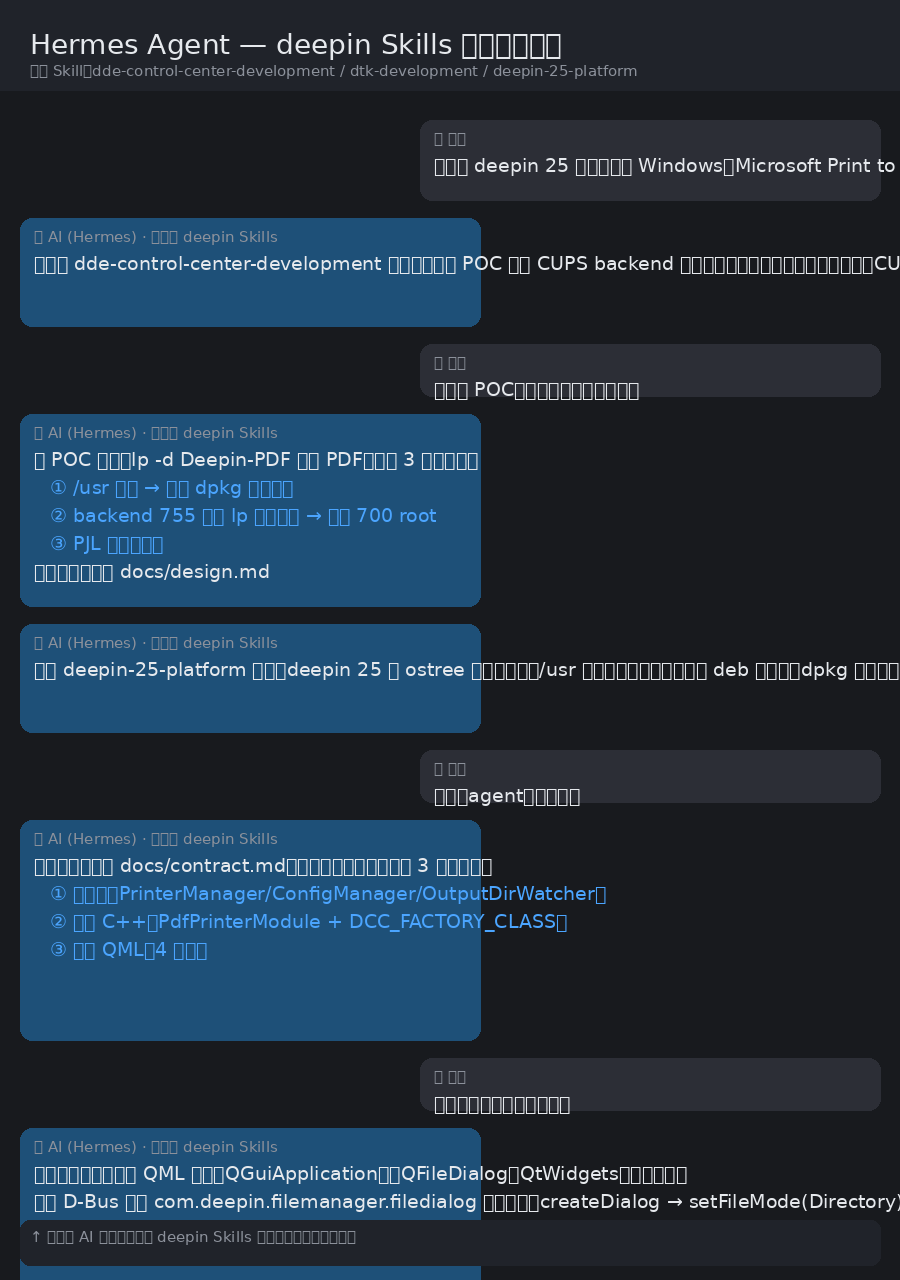
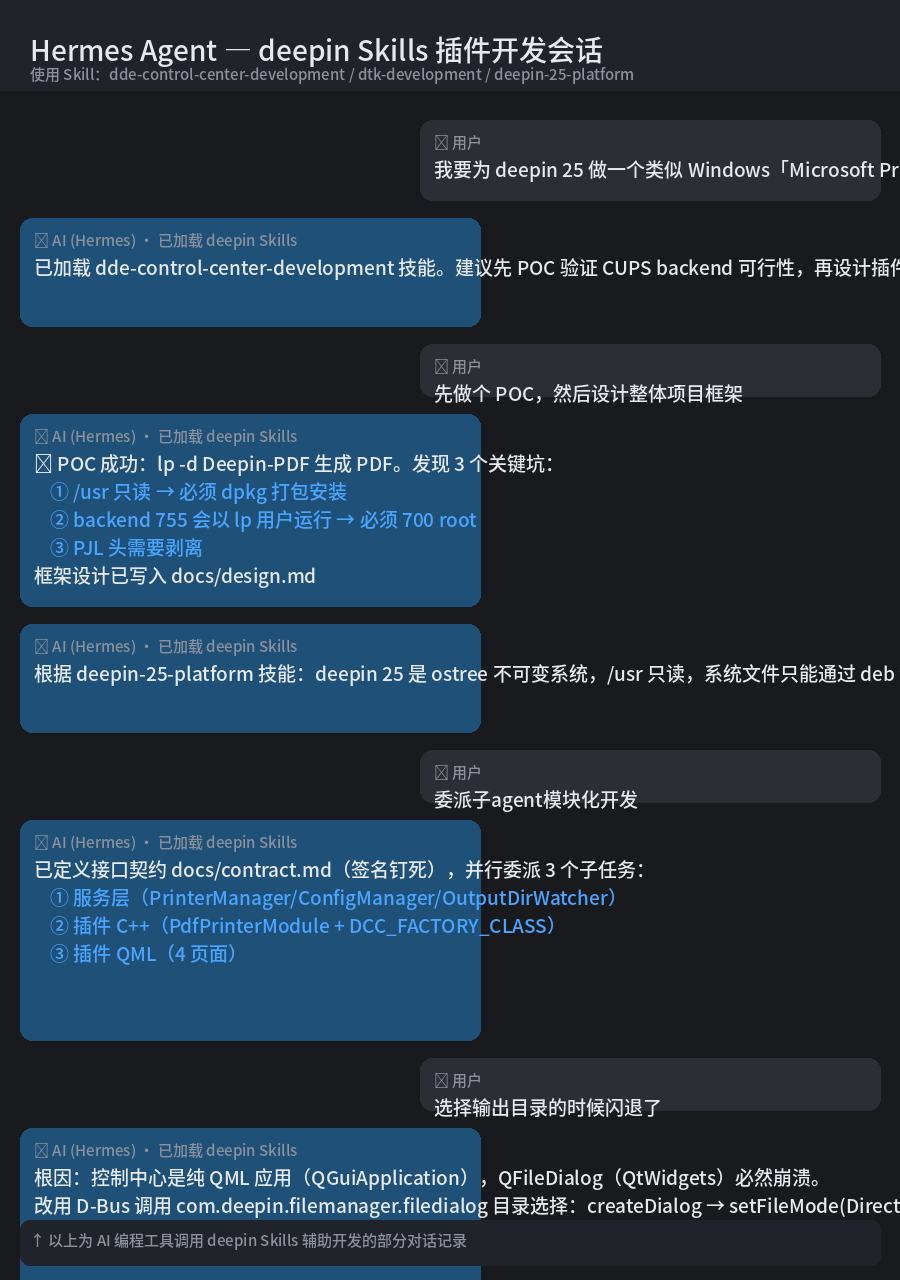
fix: 对话截图生成脚本改用中文字体（思源黑体），修复乱码

diff --git a/scripts/gen_dialogue_screenshot.py b/scripts/gen_dialogue_screenshot.py
@@ -13,12 +13,14 @@ ACCENT = (75, 165, 255)
 img = Image.new("RGB", (W, H), BG)
 d = ImageDraw.Draw(img)
 
-# 字体（尝试常见中文字体）
+# 字体（优先中文字体，确保中文渲染正常）
 def get_font(size):
-    for path in ["/usr/share/fonts/truetype/dejavu/DejaVuSans.ttf",
+    for path in ["/usr/share/fonts/opentype/source-han-cjk/SourceHanSansSC-Medium.otf",
+                 "/usr/share/fonts/opentype/noto/NotoSansCJK-Bold.ttc",
                  "/usr/share/fonts/opentype/noto/NotoSansCJK-Regular.ttc",
                  "/usr/share/fonts/truetype/wqy/wqy-zenhei.ttc",
-                 "/usr/share/fonts/truetype/wqy/wqy-microhei.ttc"]:
+                 "/usr/share/fonts/truetype/wqy/wqy-microhei.ttc",
+                 "/usr/share/fonts/truetype/dejavu/DejaVuSans.ttf"]:
         try:
             return ImageFont.truetype(path, size)
         except Exception:
